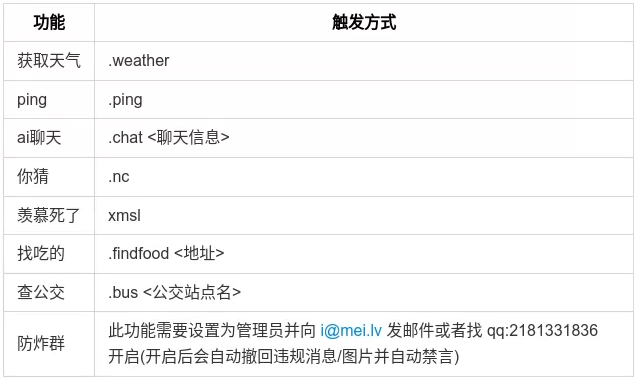
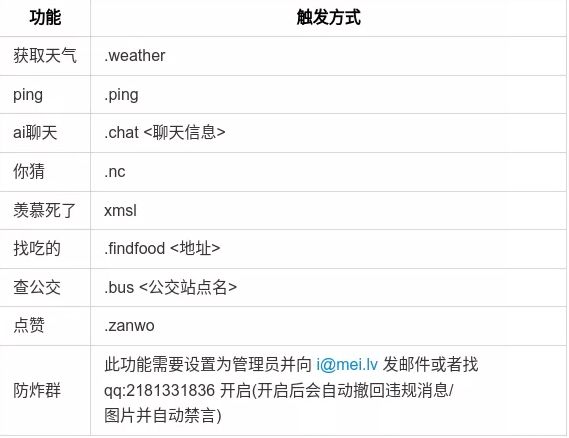
feat: 添加点赞功能

diff --git a/internal/send.go b/internal/send.go
@@ -75,7 +75,8 @@ func SendGroupMsg(conn *websocket.Conn, messageType int, message []byte) {
 	} else if strings.Contains(commandText, "杜奕") || strings.Contains(commandText, "杜伊") || strings.Contains(commandText, "喵") {
 		returnMessage = "👀"
 	} else if strings.Contains(commandText, ".help") {
-		returnMessage = "https://github.com/ssdomei232/CatBot"
+		sendHelp(conn, GroupMsg.GroupID)
+		return
 	} else if strings.Contains(commandText, ".weather") {
 		returnMessage = tools.GetWeather()
 	} else if strings.Contains(commandText, ".findfood") {
@@ -83,6 +84,9 @@ func SendGroupMsg(conn *websocket.Conn, messageType int, message []byte) {
 		returnMessage = "正在搜索..."
 	} else if strings.Contains(commandText, ".bus") {
 		returnMessage = tools.FindBus(commandText[5:])
+	} else if strings.Contains(commandText, ".zanwo") {
+		sendLike(conn, GroupMsg.GroupID, GroupMsg.UserID)
+		return
 	}
 
 	sendMessage, err := napcat.Marshal("send_group_msg", fmt.Sprint(GroupMsg.GroupID), "text", returnMessage)

diff --git a/internal/sendLike.go b/internal/sendLike.go
@@ -1,0 +1,22 @@
+package internal
+
+import (
+	"log"
+	"strconv"
+
+	"git.mmeiblog.cn/mei/CatBot/pkg/napcat"
+	"github.com/gorilla/websocket"
+)
+
+func sendLike(conn *websocket.Conn, groupId int, qqNumber int) {
+	likeMsg, _ := napcat.MarshalLikeMsg(qqNumber, 10)
+	returnMsg, _ := napcat.Marshal("send_group_msg", strconv.Itoa(groupId), "text", "赞了你10下")
+	writeMutex.Lock()
+	defer writeMutex.Unlock()
+	if err := conn.WriteMessage(websocket.TextMessage, likeMsg); err != nil {
+		log.Printf("发送响应失败: %v", err)
+	}
+	if err := conn.WriteMessage(websocket.TextMessage, returnMsg); err != nil {
+		log.Printf("发送响应失败: %v", err)
+	}
+}

diff --git a/internal/sendHelp.go b/internal/sendHelp.go
@@ -1,0 +1,17 @@
+package internal
+
+import (
+	"log"
+
+	"git.mmeiblog.cn/mei/CatBot/pkg/napcat"
+	"github.com/gorilla/websocket"
+)
+
+func sendHelp(conn *websocket.Conn, groupId int) {
+	returnMessage, _ := napcat.MarshalGroupImgMsg(groupId, "https://git.mmeiblog.cn/mei/CatBot/raw/branch/main/.gitea/tool.png")
+	writeMutex.Lock()
+	defer writeMutex.Unlock()
+	if err := conn.WriteMessage(websocket.TextMessage, returnMessage); err != nil {
+		log.Printf("发送响应失败: %v", err)
+	}
+}

diff --git a/pkg/napcat/likeMsg.go b/pkg/napcat/likeMsg.go
@@ -1,0 +1,25 @@
+package napcat
+
+import "encoding/json"
+
+type LikeMsg struct {
+	Action string `json:"action"`
+	Params struct {
+		UserId int `json:"user_id"`
+		Times  int `json:"times"`
+	} `json:"params"`
+}
+
+func MarshalLikeMsg(userId int, times int) ([]byte, error) {
+	likeMsg := LikeMsg{
+		Action: "send_like",
+		Params: struct {
+			UserId int `json:"user_id"`
+			Times  int `json:"times"`
+		}{
+			UserId: userId,
+			Times:  times,
+		},
+	}
+	return json.Marshal(likeMsg)
+}

diff --git a/README.md b/README.md
@@ -13,6 +13,7 @@
 | 羡慕死了 | xmsl |
 | 找吃的 | .findfood <地址> |
 | 查公交 | .bus <公交站点名> |
+| 点赞 | .zanwo |
 | 防炸群 | 此功能需要设置为管理员并向 i@mei.lv 发邮件或者找 qq:2181331836 开启(开启后会自动撤回违规消息/图片并自动禁言) |
 
 ## `pkg/napcat`
